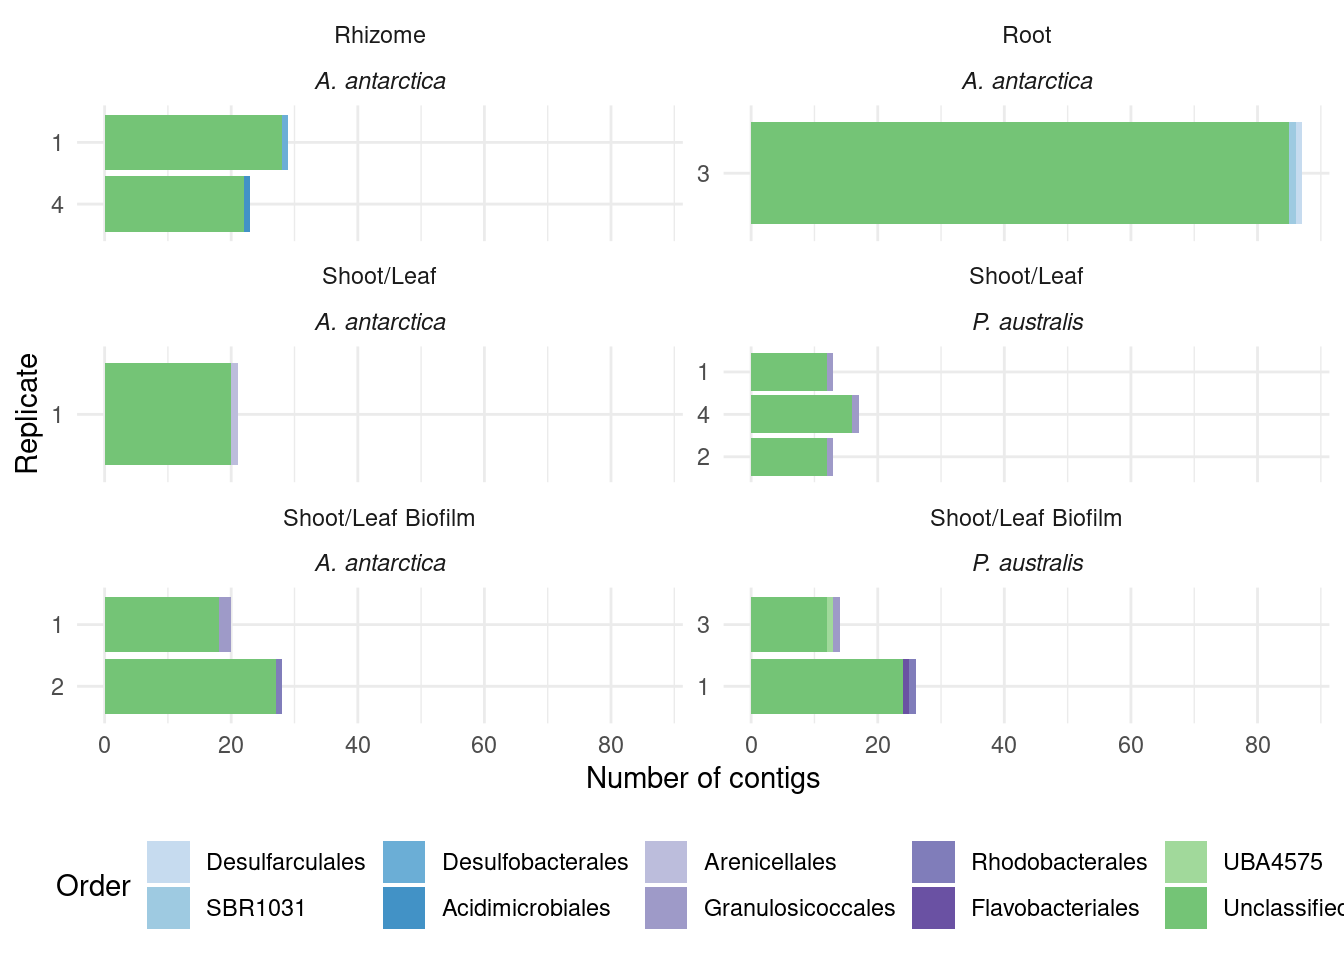
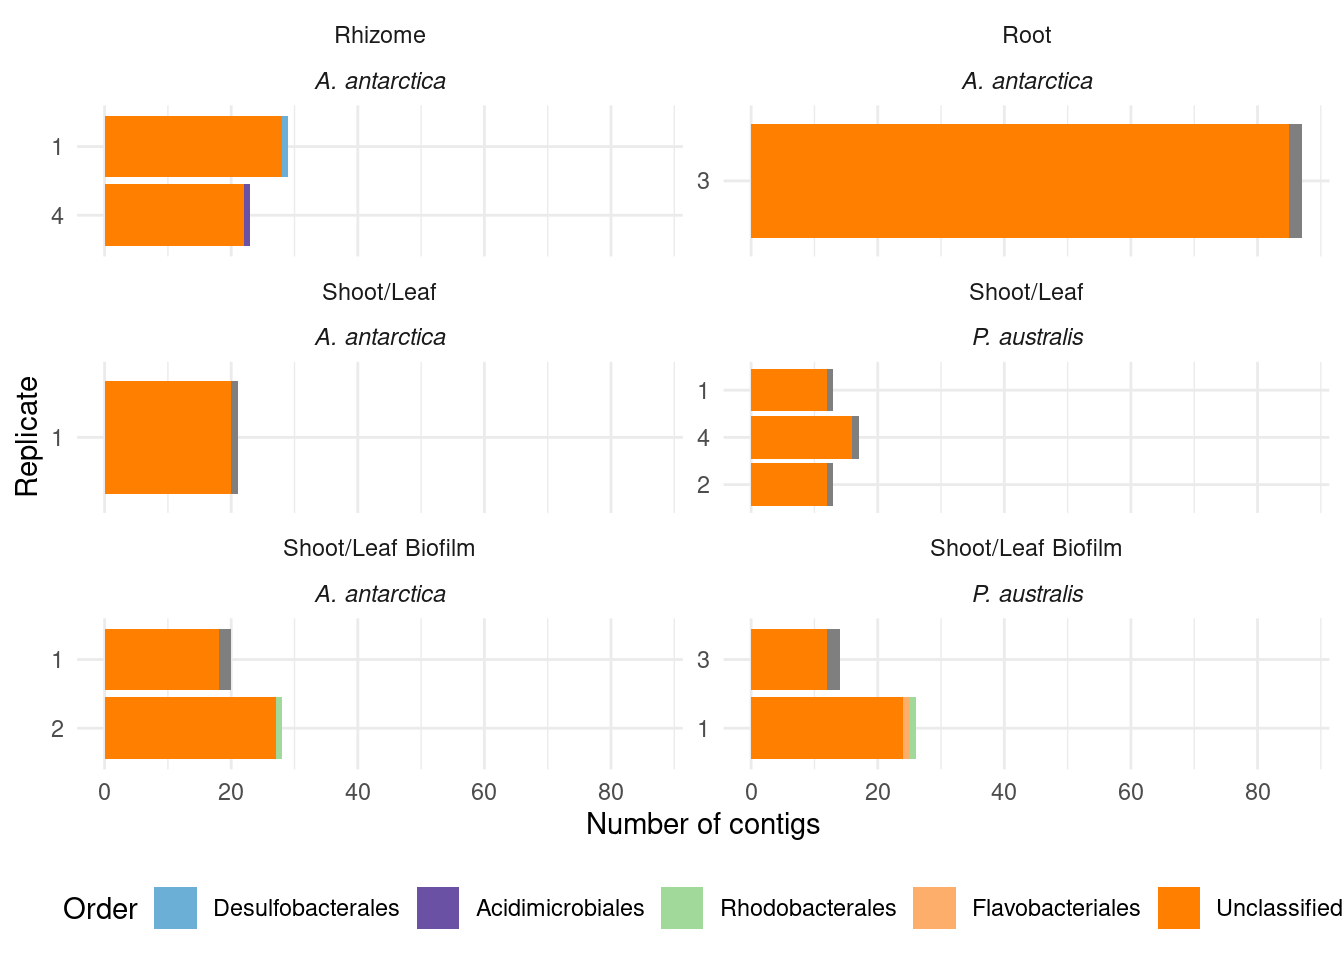
add consistent color scheme for orders

diff --git a/docs/metagenome.html b/docs/metagenome.html
@@ -524,15 +524,15 @@ project makes it easier to run your code on other machines.</p>
 <div class="panel panel-default">
 <div class="panel-heading">
 <p class="panel-title">
-<a data-toggle="collapse" data-parent="#workflowr-checks" href="#strongRepositoryversionstrongahrefhttpsgithubcomphilippbayerAmphibolisPosidoniaComparisontreeaa839e6748d519edbaf8fc8a4a9e88e68817369atargetblankaa839e6a">
+<a data-toggle="collapse" data-parent="#workflowr-checks" href="#strongRepositoryversionstrongahrefhttpsgithubcomphilippbayerAmphibolisPosidoniaComparisontree1adc975e8d8ce5661ca3eac1659f12716a418fcdtargetblank1adc975a">
 <span class="glyphicon glyphicon-ok text-success"
 aria-hidden="true"></span> <strong>Repository version:</strong>
-<a href="https://github.com/philippbayer/Amphibolis_Posidonia_Comparison/tree/aa839e6748d519edbaf8fc8a4a9e88e68817369a" target="_blank">aa839e6</a>
+<a href="https://github.com/philippbayer/Amphibolis_Posidonia_Comparison/tree/1adc975e8d8ce5661ca3eac1659f12716a418fcd" target="_blank">1adc975</a>
 </a>
 </p>
 </div>
 <div
[2 lines of base64/hex data omitted]
 class="panel-collapse collapse">
 <div class="panel-body">
 <p>
@@ -542,7 +542,7 @@ reproducibility.
 </p>
 <p>
 The results in this page were generated with repository version
-<a href="https://github.com/philippbayer/Amphibolis_Posidonia_Comparison/tree/aa839e6748d519edbaf8fc8a4a9e88e68817369a" target="_blank">aa839e6</a>.
+<a href="https://github.com/philippbayer/Amphibolis_Posidonia_Comparison/tree/1adc975e8d8ce5661ca3eac1659f12716a418fcd" target="_blank">1adc975</a>.
 See the <em>Past versions</em> tab to see a history of the changes made
 to the R Markdown and HTML files.
 </p>
@@ -560,9 +560,6 @@ Ignored files:
     Ignored:    .Rproj.user/
     Ignored:    renv/library/
     Ignored:    renv/staging/
-
-Untracked files:
-    Untracked:  data/metagenome/MAG_counts.tsv
 
 Unstaged changes:
     Modified:   analysis/metagenome.Rmd
@@ -611,6 +608,40 @@ Message
 </tr>
 </thead>
 <tbody>
+<tr>
+<td>
+Rmd
+</td>
+<td>
+<a href="https://github.com/philippbayer/Amphibolis_Posidonia_Comparison/blob/1adc975e8d8ce5661ca3eac1659f12716a418fcd/analysis/metagenome.Rmd" target="_blank">1adc975</a>
+</td>
+<td>
+Philipp Bayer
+</td>
+<td>
+2023-11-21
+</td>
+<td>
+Add the unclassified MAGs too
+</td>
+</tr>
+<tr>
+<td>
+html
+</td>
+<td>
+<a href="https://rawcdn.githack.com/philippbayer/Amphibolis_Posidonia_Comparison/1adc975e8d8ce5661ca3eac1659f12716a418fcd/docs/metagenome.html" target="_blank">1adc975</a>
+</td>
+<td>
+Philipp Bayer
+</td>
+<td>
+2023-11-21
+</td>
+<td>
+Add the unclassified MAGs too
+</td>
+</tr>
 <tr>
 <td>
 Rmd
@@ -859,7 +890,11 @@ samples</p>
 <pre class="r"><code>colors &lt;-c(microshades_palette(&quot;micro_blue&quot;, 4, lightest = FALSE), 
            microshades_palette(&quot;micro_purple&quot;, 4, lightest = FALSE),
            microshades_palette(&quot;micro_green&quot;, 4, lightest = FALSE),
-           microshades_palette(&quot;micro_orange&quot;, 4, lightest = FALSE))</code></pre>
+           microshades_palette(&quot;micro_orange&quot;, 4, lightest = FALSE))
+names(colors) &lt;- c(&quot;Rhizobiales&quot;, &quot;Clostridiales&quot;, &quot;Desulfobacterales&quot;, &quot;Chitinophagales&quot;, 
+&quot;Chromatiales&quot;, &quot;Solirubrobacterales&quot;, &quot;Xanthomonadales&quot;, &quot;Acidimicrobiales&quot;, 
+&quot;Rhodobacterales&quot;, &quot;Corallinales&quot;, &quot;Ceramiales&quot;, &quot;Alismatales&quot;, 
+&quot;Thiotrichales&quot;, &quot;Flavobacteriales&quot;, &quot;Remainder&quot;, &quot;Unclassified&quot;)</code></pre>
 <pre class="r"><code>plot_orders_gtdb &lt;- function(amph_pos_tax, group_remainder = TRUE) {
   temp &lt;- amph_pos_tax |&gt; 
     group_by(sample, Tissue, Sample_species,TotalMAGs) |&gt; 
@@ -918,6 +953,43 @@ You can override using the `.groups` argument.
 Adding missing grouping variables: `Tissue`, `Sample_species`
 Joining with `by = join_by(sample)`</code></pre>
 <p><img src="figure/metagenome.Rmd/unnamed-chunk-8-1.png" width="672" style="display: block; margin: auto;" /></p>
+<p>
+<button type="button" class="btn btn-default btn-xs btn-workflowr btn-workflowr-fig" data-toggle="collapse" data-target="#fig-unnamed-chunk-8-1">
+Past versions of unnamed-chunk-8-1.png
+</button>
+</p>
+<div id="fig-unnamed-chunk-8-1" class="collapse">
+<div class="table-responsive">
+<table class="table table-condensed table-hover">
+<thead>
+<tr>
+<th>
+Version
+</th>
+<th>
+Author
+</th>
+<th>
+Date
+</th>
+</tr>
+</thead>
+<tbody>
+<tr>
+<td>
+<a href="https://github.com/philippbayer/Amphibolis_Posidonia_Comparison/blob/1adc975e8d8ce5661ca3eac1659f12716a418fcd/docs/figure/metagenome.Rmd/unnamed-chunk-8-1.png" target="_blank">1adc975</a>
+</td>
+<td>
+Philipp Bayer
+</td>
+<td>
+2023-11-21
+</td>
+</tr>
+</tbody>
+</table>
+</div>
+</div>
 </div>
 <div id="gtdb-by-family" class="section level2">
 <h2>GTDB by family</h2>
@@ -956,6 +1028,17 @@ Date
 </tr>
 </thead>
 <tbody>
+<tr>
+<td>
+<a href="https://github.com/philippbayer/Amphibolis_Posidonia_Comparison/blob/1adc975e8d8ce5661ca3eac1659f12716a418fcd/docs/figure/metagenome.Rmd/unnamed-chunk-9-1.png" target="_blank">1adc975</a>
+</td>
+<td>
+Philipp Bayer
+</td>
+<td>
+2023-11-21
+</td>
+</tr>
 <tr>
 <td>
 <a href="https://github.com/philippbayer/Amphibolis_Posidonia_Comparison/blob/b5757aca73563d447eacd4fe551f766217368fc7/docs/figure/metagenome.Rmd/unnamed-chunk-9-1.png" target="_blank">b5757ac</a>
@@ -1072,6 +1155,43 @@ plot_orders_cat(amph_pos_tax_cat)</code></pre>
 &#39;counted_orders&#39;. You can override using the `.groups` argument.
 Joining with `by = join_by(sample)`</code></pre>
 <p><img src="figure/metagenome.Rmd/unnamed-chunk-14-1.png" width="672" style="display: block; margin: auto;" /></p>
+<p>
+<button type="button" class="btn btn-default btn-xs btn-workflowr btn-workflowr-fig" data-toggle="collapse" data-target="#fig-unnamed-chunk-14-1">
+Past versions of unnamed-chunk-14-1.png
+</button>
+</p>
+<div id="fig-unnamed-chunk-14-1" class="collapse">
+<div class="table-responsive">
+<table class="table table-condensed table-hover">
+<thead>
+<tr>
+<th>
+Version
+</th>
+<th>
+Author
+</th>
+<th>
+Date
+</th>
+</tr>
+</thead>
+<tbody>
+<tr>
+<td>
+<a href="https://github.com/philippbayer/Amphibolis_Posidonia_Comparison/blob/1adc975e8d8ce5661ca3eac1659f12716a418fcd/docs/figure/metagenome.Rmd/unnamed-chunk-14-1.png" target="_blank">1adc975</a>
+</td>
+<td>
+Philipp Bayer
+</td>
+<td>
+2023-11-21
+</td>
+</tr>
+</tbody>
+</table>
+</div>
+</div>
 </div>
 <div id="cat-by-family" class="section level2">
 <h2>CAT by family</h2>
@@ -1112,6 +1232,17 @@ Date
 </tr>
 </thead>
 <tbody>
+<tr>
+<td>
+<a href="https://github.com/philippbayer/Amphibolis_Posidonia_Comparison/blob/1adc975e8d8ce5661ca3eac1659f12716a418fcd/docs/figure/metagenome.Rmd/unnamed-chunk-15-1.png" target="_blank">1adc975</a>
+</td>
+<td>
+Philipp Bayer
+</td>
+<td>
+2023-11-21
+</td>
+</tr>
 <tr>
 <td>
 <a href="https://github.com/philippbayer/Amphibolis_Posidonia_Comparison/blob/b5757aca73563d447eacd4fe551f766217368fc7/docs/figure/metagenome.Rmd/unnamed-chunk-15-1.png" target="_blank">b5757ac</a>
@@ -1402,6 +1533,43 @@ find ACC deaminases in the metagenomes (<em>acdS</em>).</p>
         strip.text.x =  element_markdown(),
         axis.title.x = element_markdown())</code></pre>
 <p><img src="figure/metagenome.Rmd/unnamed-chunk-26-1.png" width="672" style="display: block; margin: auto;" /></p>
+<p>
+<button type="button" class="btn btn-default btn-xs btn-workflowr btn-workflowr-fig" data-toggle="collapse" data-target="#fig-unnamed-chunk-26-1">
+Past versions of unnamed-chunk-26-1.png
+</button>
+</p>
+<div id="fig-unnamed-chunk-26-1" class="collapse">
+<div class="table-responsive">
+<table class="table table-condensed table-hover">
+<thead>
+<tr>
+<th>
+Version
+</th>
+<th>
+Author
+</th>
+<th>
+Date
+</th>
+</tr>
+</thead>
+<tbody>
+<tr>
+<td>
+<a href="https://github.com/philippbayer/Amphibolis_Posidonia_Comparison/blob/1adc975e8d8ce5661ca3eac1659f12716a418fcd/docs/figure/metagenome.Rmd/unnamed-chunk-26-1.png" target="_blank">1adc975</a>
+</td>
+<td>
+Philipp Bayer
+</td>
+<td>
+2023-11-21
+</td>
+</tr>
+</tbody>
+</table>
+</div>
+</div>
 <p>What are those acdS-containing MAGs?</p>
 <pre class="r"><code>genessplit |&gt; filter(gene == &#39;acdS&#39;) |&gt; left_join(amph_pos_tax, by=c(&#39;sample&#39;, &#39;MAG&#39;), multiple = &#39;any&#39;) |&gt; knitr::kable()</code></pre>
 <table style="width:100%;">
@@ -2957,6 +3125,43 @@ Adding missing grouping variables: `Tissue`, `Sample_species`
 Joining with `by = join_by(sample)`</code></pre>
 <pre><code>Warning: Removed 3 rows containing missing values (`position_stack()`).</code></pre>
 <p><img src="figure/metagenome.Rmd/unnamed-chunk-28-1.png" width="672" style="display: block; margin: auto;" /></p>
+<p>
+<button type="button" class="btn btn-default btn-xs btn-workflowr btn-workflowr-fig" data-toggle="collapse" data-target="#fig-unnamed-chunk-28-1">
+Past versions of unnamed-chunk-28-1.png
+</button>
+</p>
+<div id="fig-unnamed-chunk-28-1" class="collapse">
+<div class="table-responsive">
+<table class="table table-condensed table-hover">
+<thead>
+<tr>
+<th>
+Version
+</th>
+<th>
+Author
+</th>
+<th>
+Date
+</th>
+</tr>
+</thead>
+<tbody>
+<tr>
+<td>
+<a href="https://github.com/philippbayer/Amphibolis_Posidonia_Comparison/blob/1adc975e8d8ce5661ca3eac1659f12716a418fcd/docs/figure/metagenome.Rmd/unnamed-chunk-28-1.png" target="_blank">1adc975</a>
+</td>
+<td>
+Philipp Bayer
+</td>
+<td>
+2023-11-21
+</td>
+</tr>
+</tbody>
+</table>
+</div>
+</div>
 <pre class="r"><code>  #select(sample, MAG, domain:species)</code></pre>
 <pre class="r"><code>genessplit |&gt; filter(gene == &#39;acdS&#39;) |&gt; 
   left_join(amph_pos_tax_cat, by=c(&#39;sample&#39;, &#39;MAG&#39;)) |&gt; 
@@ -2991,6 +3196,17 @@ Date
 </tr>
 </thead>
 <tbody>
+<tr>
+<td>
+<a href="https://github.com/philippbayer/Amphibolis_Posidonia_Comparison/blob/1adc975e8d8ce5661ca3eac1659f12716a418fcd/docs/figure/metagenome.Rmd/unnamed-chunk-29-1.png" target="_blank">1adc975</a>
+</td>
+<td>
+Philipp Bayer
+</td>
+<td>
+2023-11-21
+</td>
+</tr>
 <tr>
 <td>
 <a href="https://github.com/philippbayer/Amphibolis_Posidonia_Comparison/blob/b5757aca73563d447eacd4fe551f766217368fc7/docs/figure/metagenome.Rmd/unnamed-chunk-29-1.png" target="_blank">b5757ac</a>
@@ -3051,6 +3267,17 @@ Date
 </tr>
 </thead>
 <tbody>
+<tr>
+<td>
+<a href="https://github.com/philippbayer/Amphibolis_Posidonia_Comparison/blob/1adc975e8d8ce5661ca3eac1659f12716a418fcd/docs/figure/metagenome.Rmd/unnamed-chunk-30-1.png" target="_blank">1adc975</a>
+</td>
+<td>
+Philipp Bayer
+</td>
+<td>
+2023-11-21
+</td>
+</tr>
 <tr>
 <td>
 <a href="https://github.com/philippbayer/Amphibolis_Posidonia_Comparison/blob/b5757aca73563d447eacd4fe551f766217368fc7/docs/figure/metagenome.Rmd/unnamed-chunk-30-1.png" target="_blank">b5757ac</a>
